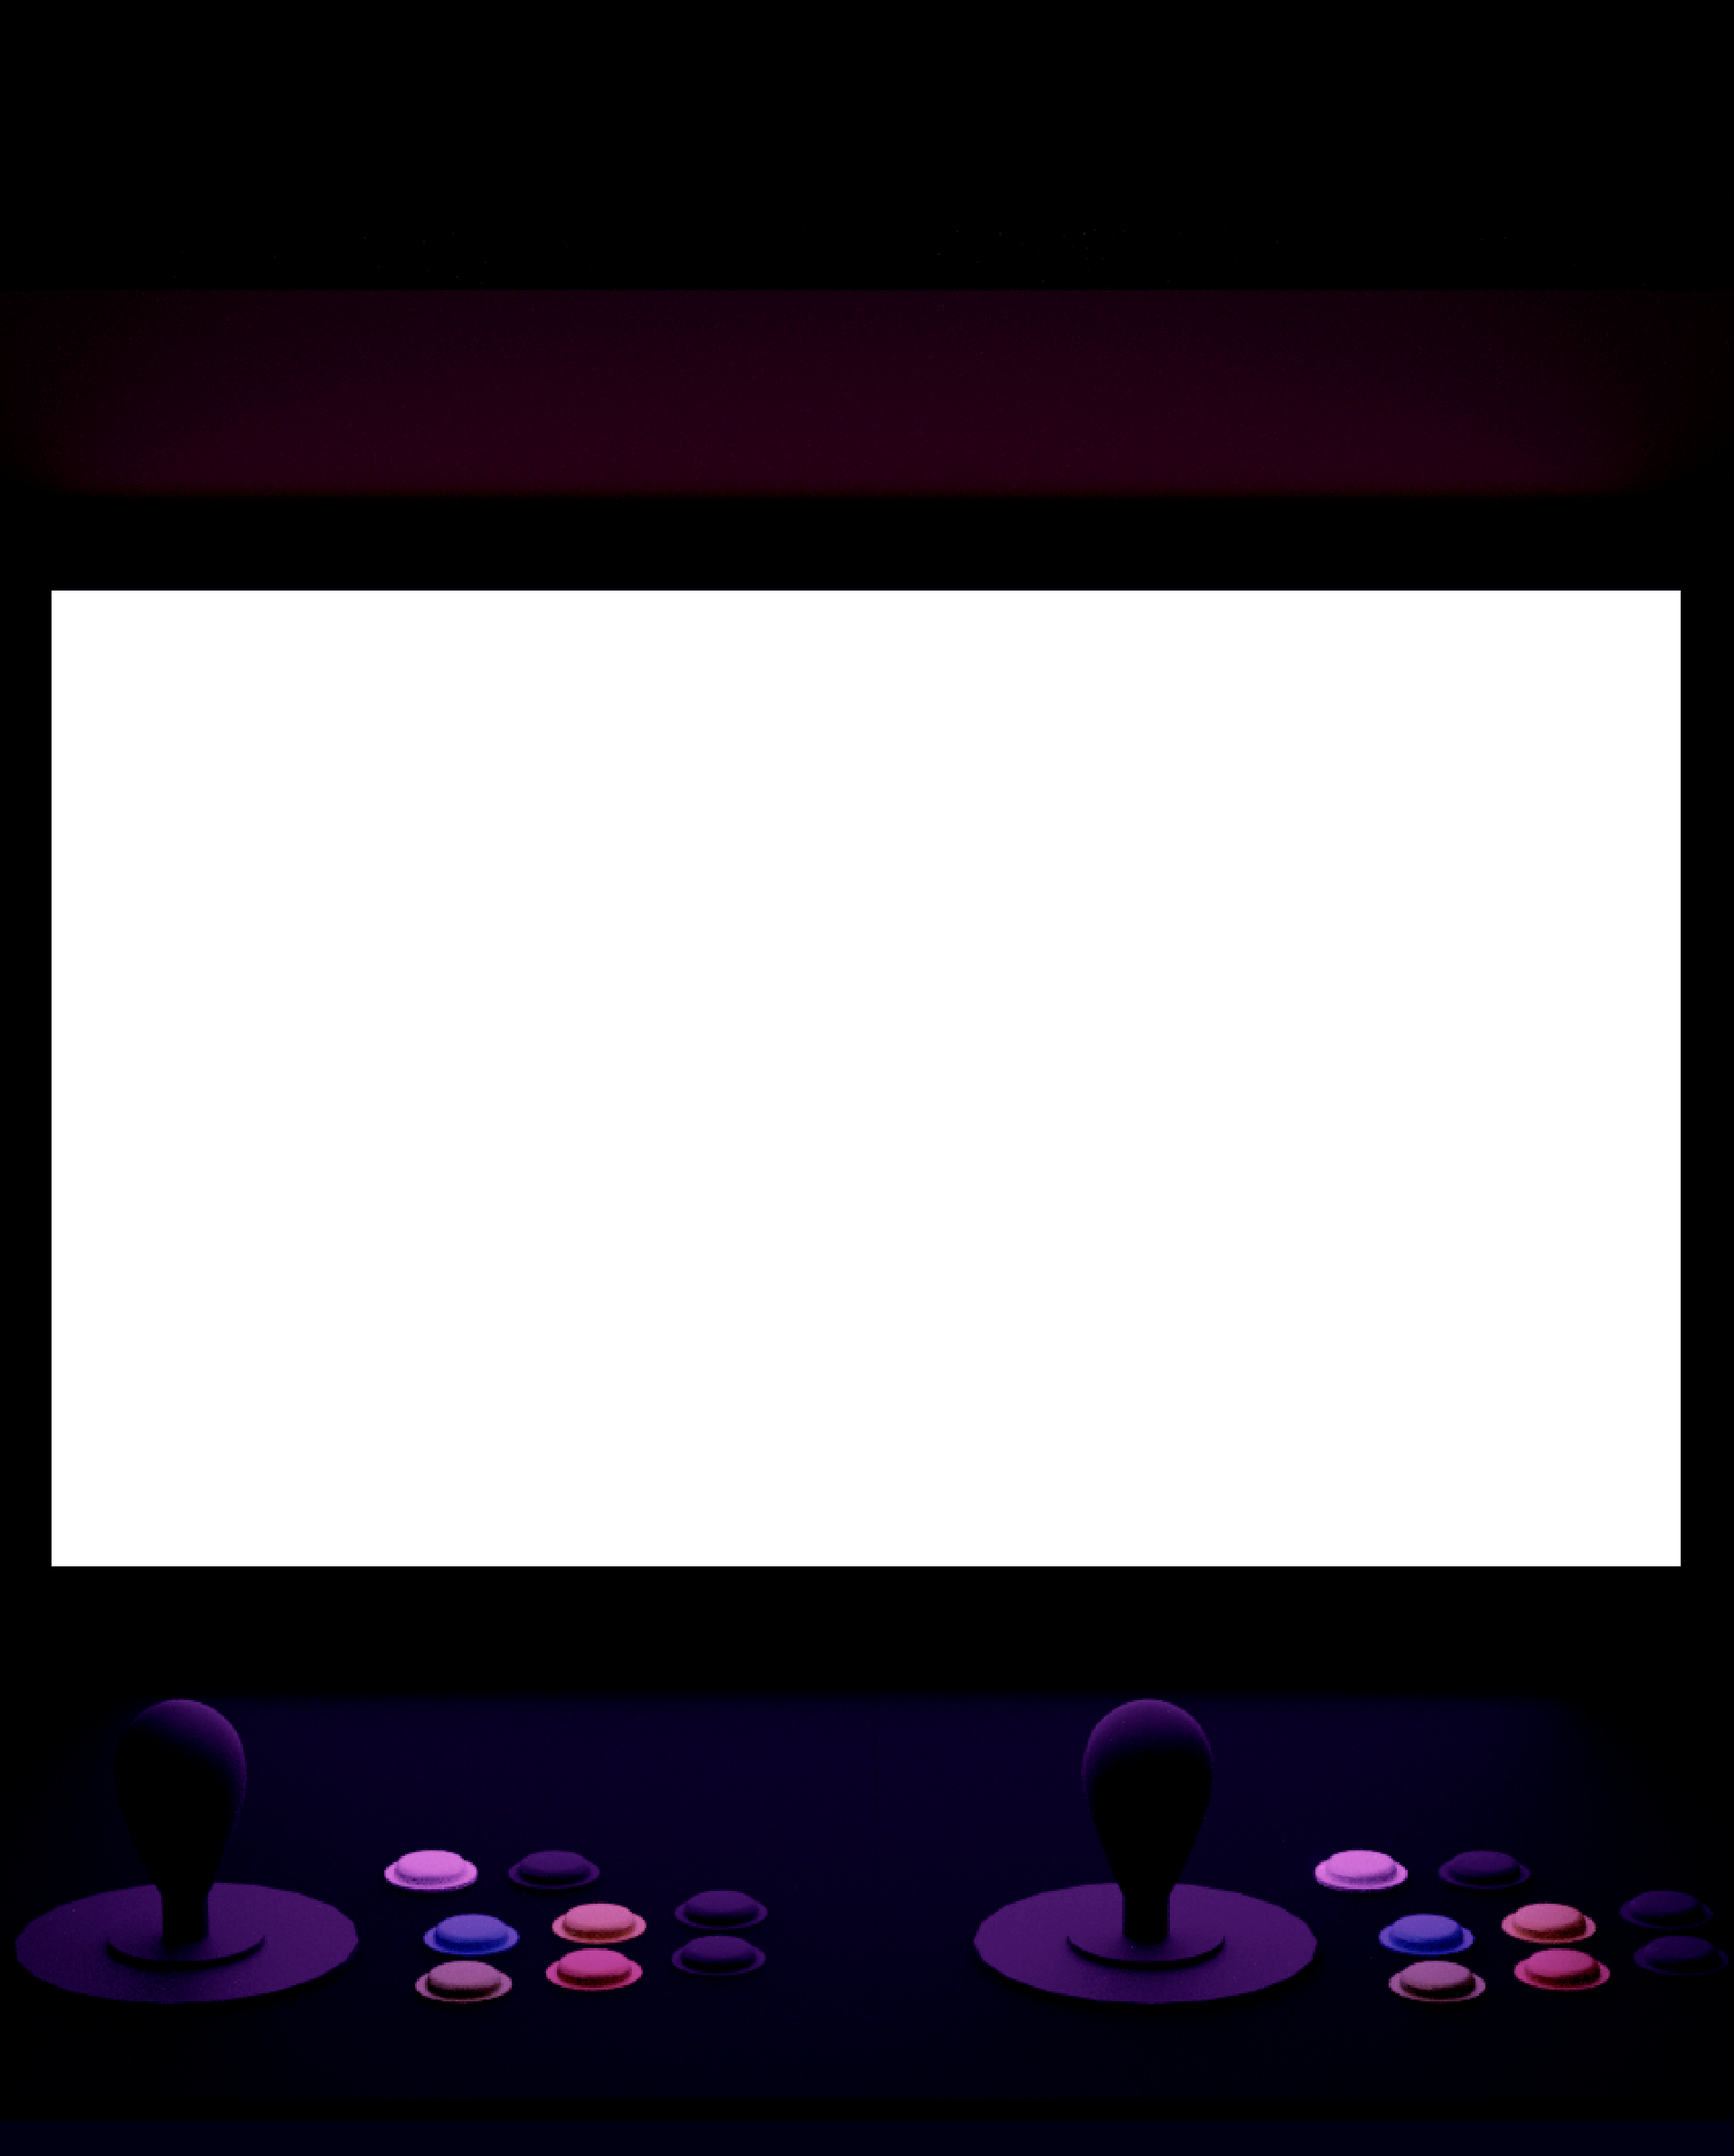
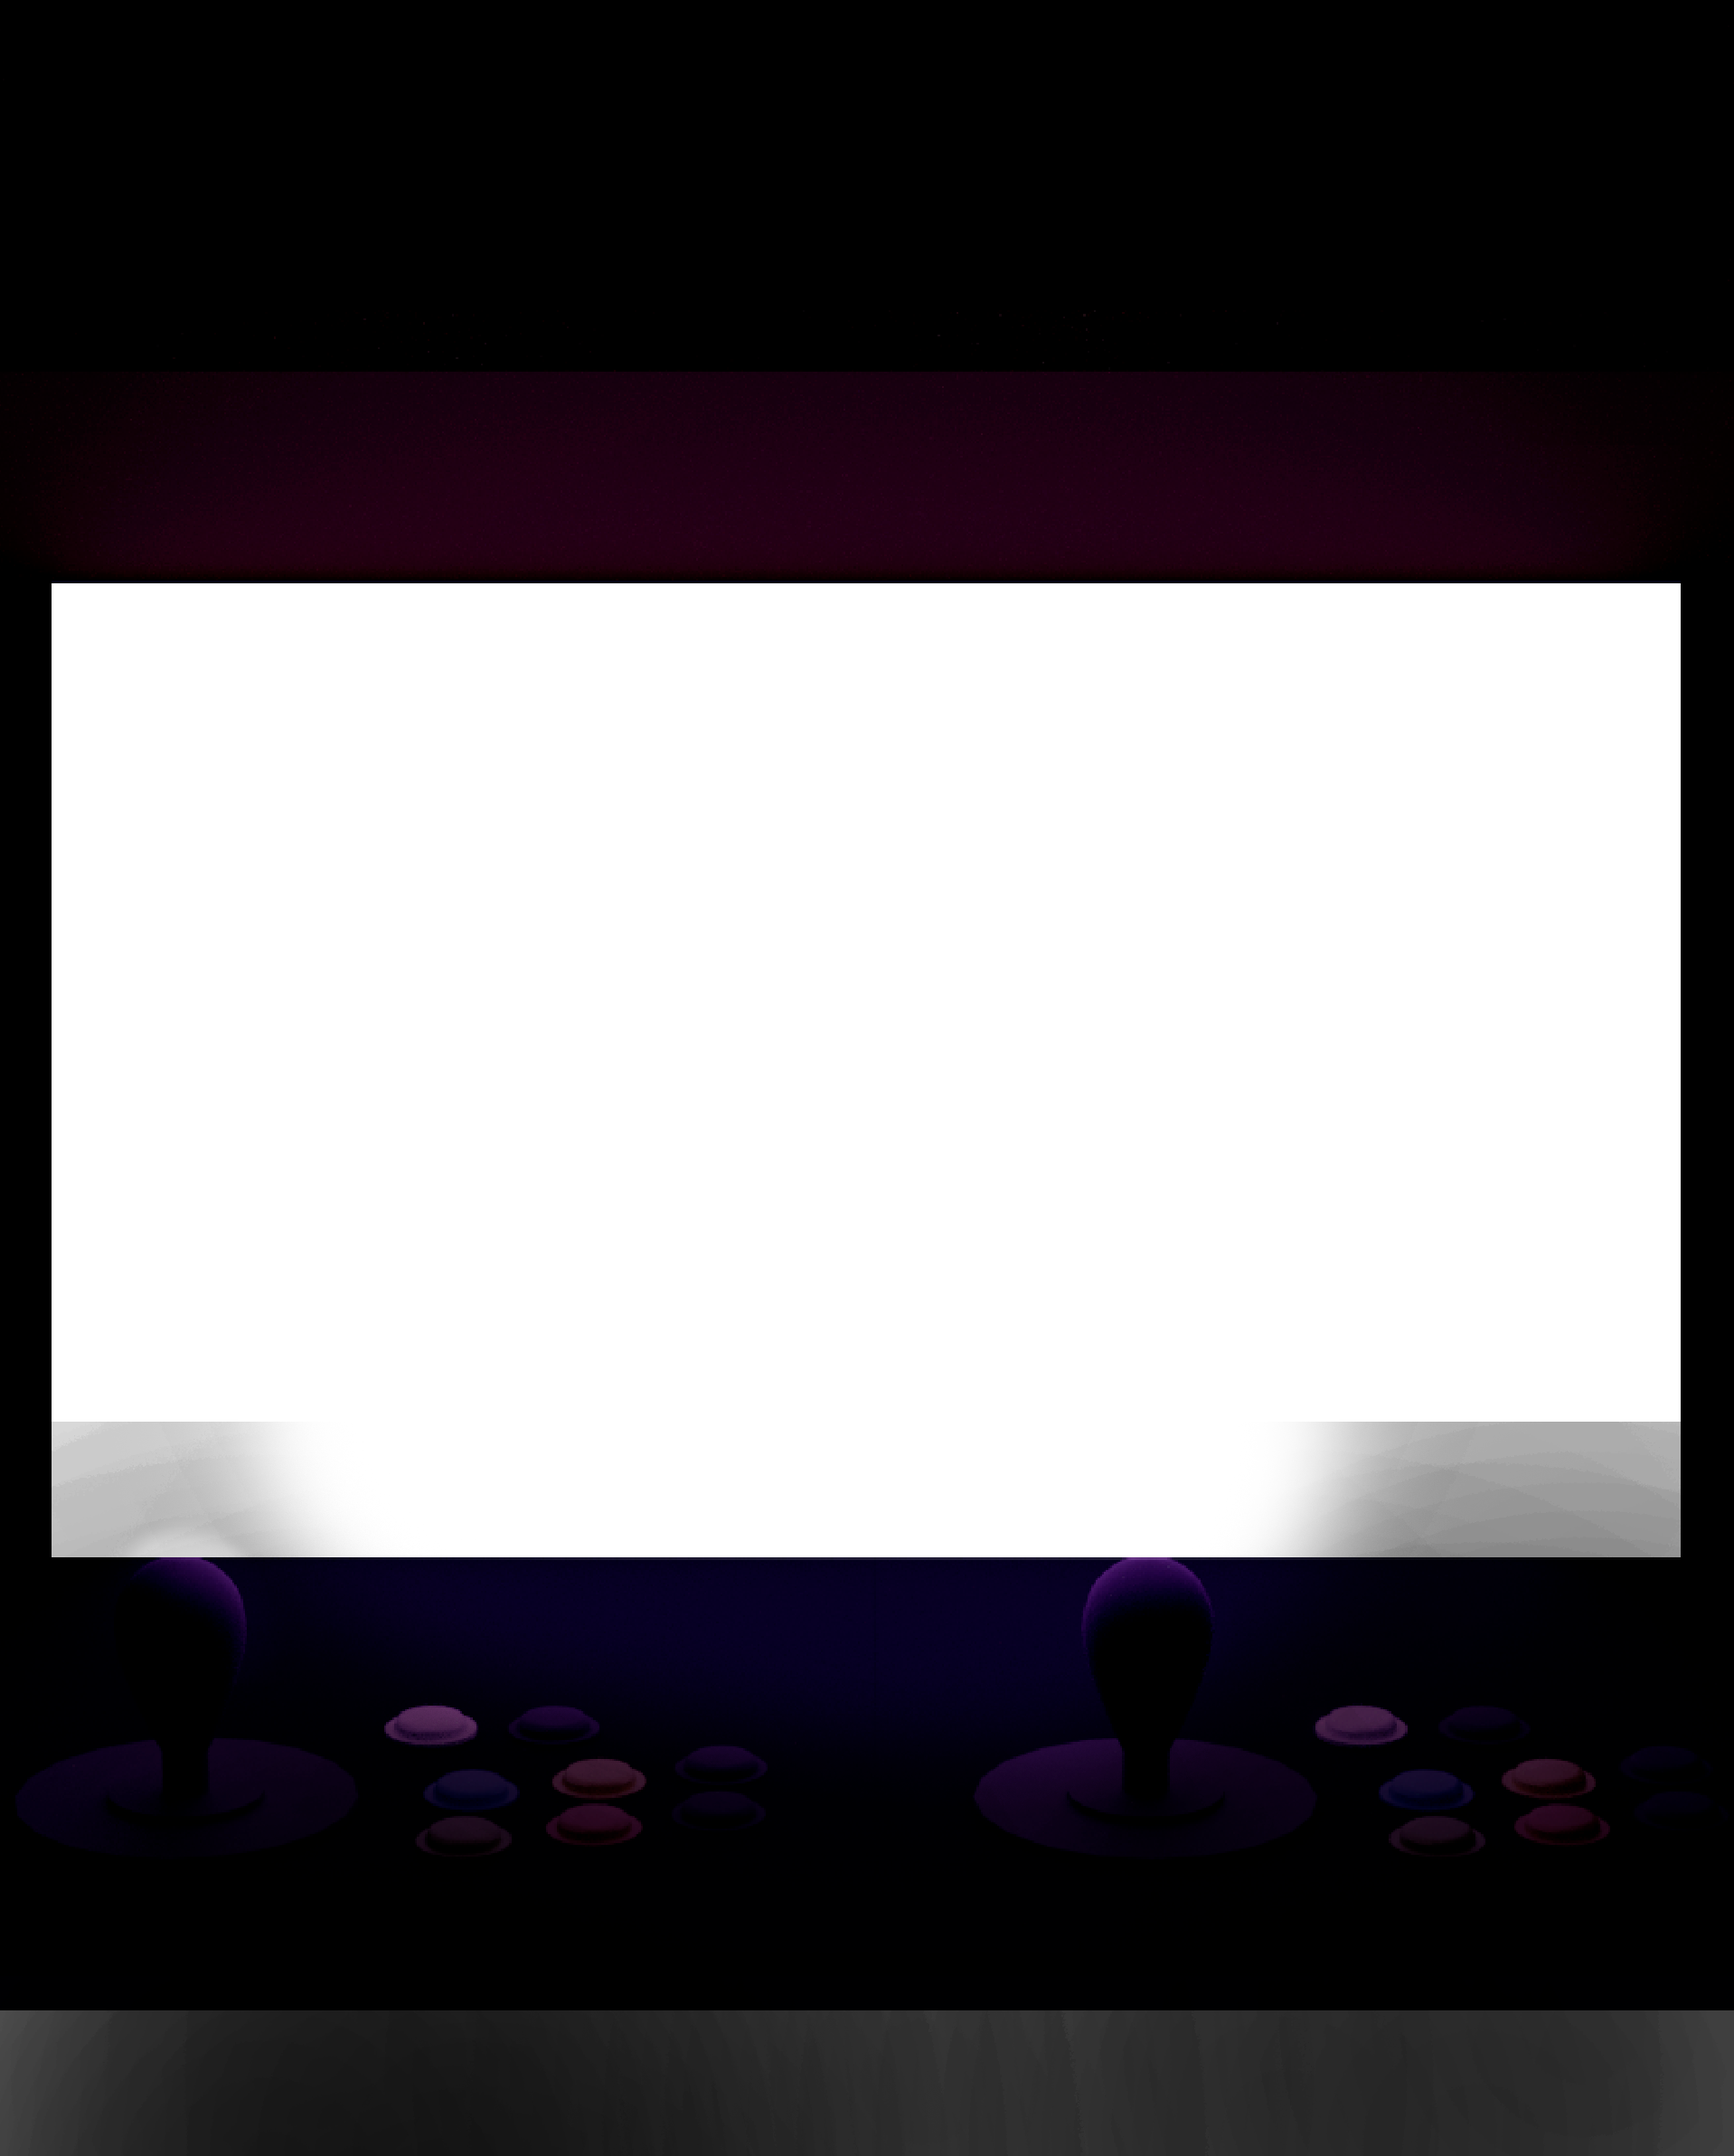
animation updates, aligns

Changed region(s): [[0.0, 0.6518, 1.0, 1.0], [0.0308, 0.2173, 0.9536, 0.2794], [0.1846, 0.1242, 0.7998, 0.1862]]

diff --git a/styles/styles.css b/styles/styles.css
@@ -16,7 +16,7 @@
 	background-image: url(../images/bg.png);
 	background-position: bottom;
 	background-size: cover;
-	transition: 1s ease;
+	transition: 2s ease;
 }
 
 .gray {
@@ -32,6 +32,7 @@ body {
 	padding: 0;
 	background-color: black;
 	overflow: hidden;
+	justify-content: center;
 }
 
 .clickable-banners {
@@ -151,21 +152,24 @@ body {
 }
 
 .text {
+	transition: 1s ease-out;
 	opacity: 1;
 	position: absolute;
 	bottom: 50%;
 	z-index: 1;
 	transition: 1s ease;
+	z-index: 4;
 }
 
 .title-animation {
-	transition: 1s ease-in;
+	transition: 1s ease-out;
 	bottom: 5%;
 }
 
 .title-animation h1 {
-	transition: 1s ease-in;
+	transition: 1s ease-out;
 	font-size: 3em;
+	line-height: 60px;
 }
 
 .opacity0 {
@@ -173,20 +177,16 @@ body {
 	opacity: 0;
 }
 
-h1 {
-	font-family: 'VT323', sans-serif;
-	font-size: 122px;
+.glitch {
+	transition: 1s ease-out;
+	font-family: 'poppins', sans-serif;
+	text-transform: uppercase;
+	font-size: 4em;
 	line-height: 124px;
 	color: #ffffff;
 	margin: 0;
 }
 
-.line {
-	width: 100%;
-	height: 2px;
-	background-color: white;
-	margin: 10 px 0;
-}
 h3 {
 	font-family: 'Poppins', sans-serif;
 	font-size: 36px;
@@ -322,10 +322,10 @@ h3 {
 		width: 27vw;
 	}
 	.dialog .dialog-text {
-		padding-right: 20%!important;
+		padding-right: 20% !important;
 	}
 	.dialog.right .dialog-text {
-		padding-right: 26%!important;
+		padding-right: 26% !important;
 	}
 	.dialog-text .mobile-arrow {
 		display: block;
@@ -339,26 +339,41 @@ h3 {
 	.pixel-container .dialog .dialog-text {
 		font-size: 9px;
 	}
-	.title-animation h1 {
-		line-height: 54px;
-		font-size: 2em;
-	}
-	.title-animation {
-		bottom: 90%
-	}
+
 	.dialog {
 		width: 30vw;
 	}
+
 	.dialog.left,
 	.dialog.right {
 		height: 11vw;
+	}
+
+	.text {
+		top: 40%;
+		bottom: unset;
+		width: 90%;
+		padding-left: 10px;
+	}
+	.glitch {
+		font-size: 3.5em;
+		line-height: 58px;
+	}
+	.title-animation h1 {
+		margin-bottom: 16px;
+		line-height: 48px;
+		font-size: 3em;
+	}
+	.title-animation {
+		top: 5%;
+		bottom: unset;
 	}
 }
 
 .game-machine-container {
 	position: fixed;
-	top: 0;
-	left: 0;
+	/* top: 0;
+	left: 0; */
 	height: 100%;
 	width: 100%;
 	display: flex;
@@ -372,5 +387,4 @@ h3 {
 	background-image: url(../images/game-machine.png);
 	background-position: center;
 	background-size: cover;
-	transition: 1s ease;
 }

diff --git a/index.html b/index.html
@@ -65,7 +65,7 @@
 			<span class="sub">Fan Art NFTs For MoonRabbit</span>
 		</div>
 	</div>
-	<div class="game-machine-container">
+	<div class="game-machine-container gray">
 		<div class="game-machine"></div>
 	</div>
 </body>
@@ -81,7 +81,6 @@
 
 	const bannerHovered = (className) => {
 		if (!isLoaded) return;
-		console.log(isLoaded)
 		$('.main-bg').addClass('gray');
 		$(className).removeClass(' animate__fadeOutUp')
 		$(className).addClass(' animate__fadeInDown')
@@ -130,6 +129,7 @@
 	setTimeout(() => {
 		$('.text').addClass('title-animation');
 		$('.main-bg').removeClass('gray');
+		$('.game-machine-container').removeClass('gray');
 		$('.pixel-container').addClass('hoverEnabled');
 		isLoaded = true;
 	}, 2000)
